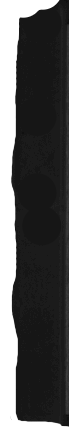
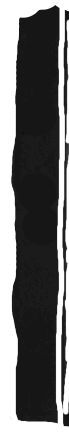
Added test code

Changed region(s): [[0.8116, 0.0, 1.0, 0.9597]]

diff --git a/side_smudge.py b/side_smudge.py
@@ -1,56 +1,41 @@
 import cv2 as cv
-from PIL import Image
 import numpy as np
+from cropIn import crop
 
+def detect_side(isLeft: bool, img):
+    mask = None
+    if (isLeft):
+        mask = cv.imread("left_template.png", cv.IMREAD_UNCHANGED)
+    else:
+        mask = cv.imread("right_template.png", cv.IMREAD_UNCHANGED)
 
-import glob
-import os
+    img = crop(img)
+    
+    pic = img[:, -68:-5]
+    if (isLeft):
+        pic = img[:, 5:68]
 
-
-input_folder_path = './PrePro/input'
-output_folder_path = './PrePro/output'
-
-for filename in glob.glob(input_folder_path + '/*.tif'):
-    img = cv.imread(filename, cv.IMREAD_GRAYSCALE)
-    template = cv.imread('cropped_manual.tif', cv.IMREAD_GRAYSCALE)
-    mask = cv.imread("left_template.png", cv.IMREAD_UNCHANGED)
-
-
-    res = cv.matchTemplate(img, template, cv.TM_SQDIFF_NORMED)
-    min_val, max_val, min_loc, max_loc = cv.minMaxLoc(res)
-    top_left = min_loc
-    # 1338x445 is the dimension of the template
-    bottom_right = (top_left[0] + 1338, top_left[1] + 445)
-
-    cropped_image = img[top_left[1]:(top_left[1] + 445), top_left[0]:(top_left[0] + 1338)]
-
-    left_pic = cropped_image[:, 5:68]
-    left_pic = cv.convertScaleAbs(left_pic, 0.5, 10)
-    left_pic = cv.cvtColor(left_pic, cv.COLOR_GRAY2RGBA)
+    pic = cv.GaussianBlur(pic, (3, 3), 0)
+    pic = cv.convertScaleAbs(pic, 0.5, 10)
+    pic = cv.cvtColor(pic, cv.COLOR_GRAY2RGBA)
     mask = mask[:445, :63]
-    left_pic = cv.subtract(left_pic, mask)
+    pic = cv.subtract(pic, mask)
     
 
-    arr = np.where(left_pic==0, np.nan, left_pic)
+    arr = np.where(pic==0, np.nan, pic)
     mean = np.nanmean(arr)
     std = np.nanstd(arr)
-    #print(mean, std)
-    anomalies = (np.abs(arr - mean) / std >= 1.0).any(axis=2)
+
+    
+    anomalies = (np.abs(arr - mean) / std >= 2.0).any(axis=2)
     mask_u8 = anomalies.astype(np.uint8) * 255
     mask_u8 = cv.cvtColor(mask_u8, cv.COLOR_GRAY2RGB)
-    mask = cv.imread("left_template_nt.png", cv.IMREAD_COLOR)
+    if (isLeft):
+        mask = cv.imread("left_template_nt.png", cv.IMREAD_COLOR)
+    else:
+        mask = cv.imread("right_template_nt.png", cv.IMREAD_COLOR)
     mask = mask[:445, :63]
     mask = cv.bitwise_not(mask)
     mask_u8 = cv.bitwise_and(mask_u8, mask)
 
-    #mask_u8 = cv.cvtColor(mask_u8, cv.COLOR_GRAY2RGB)
-    #print(np.shape(mask_u8))
-    #binMask = cv.bitwise_not(binMask)[:445, :63]
-    #binMask = cv.threshold(binMask, 100, 255, cv.THRESH_BINARY)
-    
-    #print(np.shape(binMask))
-    #smask_u8 = cv.subtract(mask_u8, mask)
-    #grayscale = (np.abs(yuv - mean) / std / 5).max(axis=2)
-
-    cv.imshow("mask", mask_u8)
-    cv.waitKey(0)
+    return mask_u8

diff --git a/side_smudge_L.py b/side_smudge_L.py
@@ -1,0 +1,56 @@
+import cv2 as cv
+from PIL import Image
+import numpy as np
+
+
+import glob
+import os
+
+
+input_folder_path = './PrePro/input'
+output_folder_path = './PrePro/output'
+
+for filename in glob.glob(input_folder_path + '/*.tif'):
+    img = cv.imread(filename, cv.IMREAD_GRAYSCALE)
+    template = cv.imread('cropped_manual.tif', cv.IMREAD_GRAYSCALE)
+    mask = cv.imread("left_template.png", cv.IMREAD_UNCHANGED)
+
+
+    res = cv.matchTemplate(img, template, cv.TM_SQDIFF_NORMED)
+    min_val, max_val, min_loc, max_loc = cv.minMaxLoc(res)
+    top_left = min_loc
+    # 1338x445 is the dimension of the template
+    bottom_right = (top_left[0] + 1338, top_left[1] + 445)
+
+    cropped_image = img[top_left[1]:(top_left[1] + 445), top_left[0]:(top_left[0] + 1338)]
+
+    left_pic = cropped_image[:, 5:68]
+    left_pic = cv.convertScaleAbs(left_pic, 0.5, 10)
+    left_pic = cv.cvtColor(left_pic, cv.COLOR_GRAY2RGBA)
+    mask = mask[:445, :63]
+    left_pic = cv.subtract(left_pic, mask)
+    
+
+    arr = np.where(left_pic==0, np.nan, left_pic)
+    mean = np.nanmean(arr)
+    std = np.nanstd(arr)
+    #print(mean, std)
+    anomalies = (np.abs(arr - mean) / std >= 1.0).any(axis=2)
+    mask_u8 = anomalies.astype(np.uint8) * 255
+    mask_u8 = cv.cvtColor(mask_u8, cv.COLOR_GRAY2RGB)
+    mask = cv.imread("left_template_nt.png", cv.IMREAD_COLOR)
+    mask = mask[:445, :63]
+    mask = cv.bitwise_not(mask)
+    mask_u8 = cv.bitwise_and(mask_u8, mask)
+
+    #mask_u8 = cv.cvtColor(mask_u8, cv.COLOR_GRAY2RGB)
+    #print(np.shape(mask_u8))
+    #binMask = cv.bitwise_not(binMask)[:445, :63]
+    #binMask = cv.threshold(binMask, 100, 255, cv.THRESH_BINARY)
+    
+    #print(np.shape(binMask))
+    #smask_u8 = cv.subtract(mask_u8, mask)
+    #grayscale = (np.abs(yuv - mean) / std / 5).max(axis=2)
+
+    cv.imshow("mask", mask_u8)
+    cv.waitKey(0)

diff --git a/side_smudge_R.py b/side_smudge_R.py
@@ -1,0 +1,51 @@
+import cv2 as cv
+from PIL import Image
+import numpy as np
+
+
+import glob
+import os
+
+
+input_folder_path = './PrePro/input'
+output_folder_path = './PrePro/output'
+
+for filename in glob.glob(input_folder_path + '/*.tif'):
+    img = cv.imread(filename, cv.IMREAD_GRAYSCALE)
+    template = cv.imread('cropped_manual.tif', cv.IMREAD_GRAYSCALE)
+    mask = cv.imread("right_template.png", cv.IMREAD_UNCHANGED)
+
+
+    res = cv.matchTemplate(img, template, cv.TM_SQDIFF_NORMED)
+    min_val, max_val, min_loc, max_loc = cv.minMaxLoc(res)
+    top_left = min_loc
+    # 1338x445 is the dimension of the template
+    bottom_right = (top_left[0] + 1338, top_left[1] + 445)
+
+    cropped_image = img[top_left[1]:(top_left[1] + 445), top_left[0]:(top_left[0] + 1338)]
+
+    right_pic = cropped_image[:, -68:-5]
+    right_pic = cv.GaussianBlur(right_pic, (3, 3), 0)
+
+    right_pic = cv.convertScaleAbs(right_pic, 0.5, 10)
+    right_pic = cv.cvtColor(right_pic, cv.COLOR_GRAY2RGBA)
+    mask = mask[:445, :63]
+    right_pic = cv.subtract(right_pic, mask)
+    
+
+    arr = np.where(right_pic==0, np.nan, right_pic)
+    mean = np.nanmean(arr)
+    std = np.nanstd(arr)
+
+
+    
+    anomalies = (np.abs(arr - mean) / std >= 2.0).any(axis=2)
+    mask_u8 = anomalies.astype(np.uint8) * 255
+    mask_u8 = cv.cvtColor(mask_u8, cv.COLOR_GRAY2RGB)
+    mask = cv.imread("right_template_nt.png", cv.IMREAD_COLOR)
+    mask = mask[:445, :63]
+    mask = cv.bitwise_not(mask)
+    mask_u8 = cv.bitwise_and(mask_u8, mask)
+
+    cv.imshow("mask", mask_u8)
+    cv.waitKey(100)

diff --git a/cropIn.py b/cropIn.py
@@ -1,0 +1,19 @@
+import cv2 as cv
+import PIL
+import numpy as np
+
+
+def crop(img):
+    template = cv.imread('cropped_manual.tif', cv.IMREAD_GRAYSCALE)
+
+    res = cv.matchTemplate(img, template, cv.TM_SQDIFF_NORMED)
+    min_val, max_val, min_loc, max_loc = cv.minMaxLoc(res)
+    top_left = min_loc
+    
+    # print(top_left)
+    # 1338x445 is the dimension of the template
+    # bottom_right = (top_left[0] + 1338, top_left[1] + 445)
+
+    cropped_image = img[top_left[1]:(top_left[1] + 445), top_left[0]:(top_left[0] + 1338)]
+
+    return cropped_image    

diff --git a/testing.py b/testing.py
@@ -1,0 +1,14 @@
+import glob
+from side_smudge import detect_side
+import cv2 as cv
+
+input_folder_path = './PrePro/input'
+output_folder_path = './PrePro/output'
+
+for filename in glob.glob(input_folder_path + '/*.tif'):
+    img = cv.imread(filename, cv.IMREAD_GRAYSCALE)
+    img = detect_side(False, img)
+    
+    cv.imshow("mask", img)
+    cv.waitKey(10)
+    
